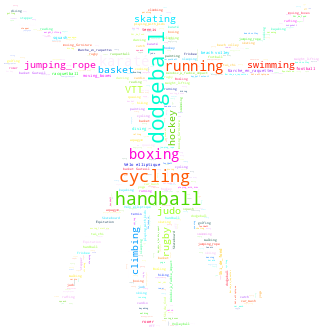
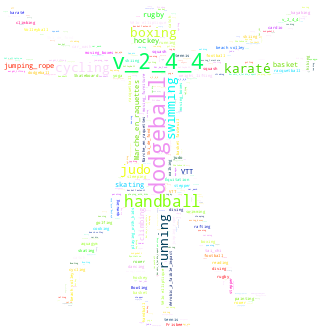
Add vetruve

Changed region(s): [[0.0, 0.0, 0.9969, 1.0]]

diff --git a/trianer/gpx.py b/trianer/gpx.py
@@ -1,7 +1,6 @@
 import datetime
 import os
 import json
-import time
 import logging
 
 import numpy as np
@@ -155,16 +154,24 @@ def get_requests(filename):
     return url_req
 
 
-def get_data_from_file(filename):
-
+def get_file(filename, read=False):
     if "http" in filename:
         url_req = get_requests(filename)
-        xml = url_req.text
+        if read:
+            xml = url_req.text
+        return filename
     else:
         for d in ["./data", "../data"]:
             dfilename = f"{d}/{filename}"
             if os.path.exists(dfilename):
-                xml = open(dfilename, "r").read()
+                if read:
+                    return open(dfilename, "r").read()
+                return dfilename
+
+
+def get_data_from_file(filename):
+
+    xml = get_file(filename, read=True)
 
     if "<trkpt" in xml:
         splitter = "<trkpt"

diff --git a/trianer/vetruve.py b/trianer/vetruve.py
@@ -34,6 +34,11 @@ def wordcloud_calories_per_sport():
     Show activities depending on the calories spent
 
     """
+    from . import __version__
+
+    version = __version__
+    rd.seed(42)
+
     from wordcloud import WordCloud
 
     data = get_kcalories(None)
@@ -44,8 +49,10 @@ def wordcloud_calories_per_sport():
     words = []
     for d in ddata.index:
         words += [d] * int(w[d])
+    words += [f"v_{version}".replace(".", "_")] * 100
 
     rd.shuffle(words)
+    # print(words)
 
     # read the mask image
     alice_mask = np.array(Image.open("vetruve.png"))
@@ -66,7 +73,7 @@ def wordcloud_calories_per_sport():
 
     # generate word cloud
     wc.generate(" ".join(words))
-    wc.to_file("vetruve_gen.png")
+    #wc.to_file("../data/vetruve_gen.png")
 
     # show
     plt.imshow(wc, interpolation="bilinear")

diff --git a/data/__init__.py b/data/__init__.py
@@ -1,0 +1,29 @@
+import logging
+import os
+
+
+def get_requests(filename):
+    import requests
+
+    logging.getLogger("requests").setLevel(logging.WARNING)
+    logging.getLogger("urllib3").setLevel(logging.WARNING)
+
+    url_req = requests.get(filename)
+    url_req.encoding = "UTF-8"
+
+    return url_req
+
+
+def get_file(filename, read=False):
+    if "http" in filename:
+        url_req = get_requests(filename)
+        if read:
+            return url_req.text
+        return filename
+    else:
+        for d in ["./data", "../data"]:
+            dfilename = f"{d}/{filename}"
+            if os.path.exists(dfilename):
+                if read:
+                    return open(dfilename, "r").read()
+                return dfilename

diff --git a/streamlit_app.py b/streamlit_app.py
@@ -236,8 +236,11 @@ def main():
 
     if menu_id == "about":
         st.header(gl(menu_id))
+        vetruve_file = trianer.gpx.get_file("vetruve_gen.png")
+        st.image(vetruve_file)
         st.success(f"Using version {trianer.__version__}")
         st.markdown(open("./CHANGELOG.md", "r").read())
+
         with st.expander("Cookies management", expanded=False):
             st.write(all_cookies)
             cookie = st.text_input("Cookie", key="Cookie list")

diff --git a/trianer/race.py b/trianer/race.py
@@ -1,6 +1,5 @@
 import numpy as np
 import pandas as pd
-import datetime
 import os
 from google.cloud import firestore
 

diff --git a/trianer/__init__.py b/trianer/__init__.py
@@ -1,4 +1,4 @@
-__version__ = "2.4.3"
+__version__ = "2.4.4"
 
 from .gpx import *
 from .fueling import *

diff --git a/CHANGELOG.md b/CHANGELOG.md
@@ -9,13 +9,15 @@ All notable changes to this project will be documented here.
 - Improve slope dependencies with speed
 - Set a french/english flag
 - Add language menu
+- Add sudation parameters
 
-#### [2.4.3] - 2022-09-23
+#### [2.4.4] - 2022-09-23
 
 - Temperature can be set on every pages
 - Fix weight input
 - Add axis on graphs
 - Start introducing fr/en translations
+- Add fun vetruve
 
 #### [2.3.2] - 2022-09-22
 
